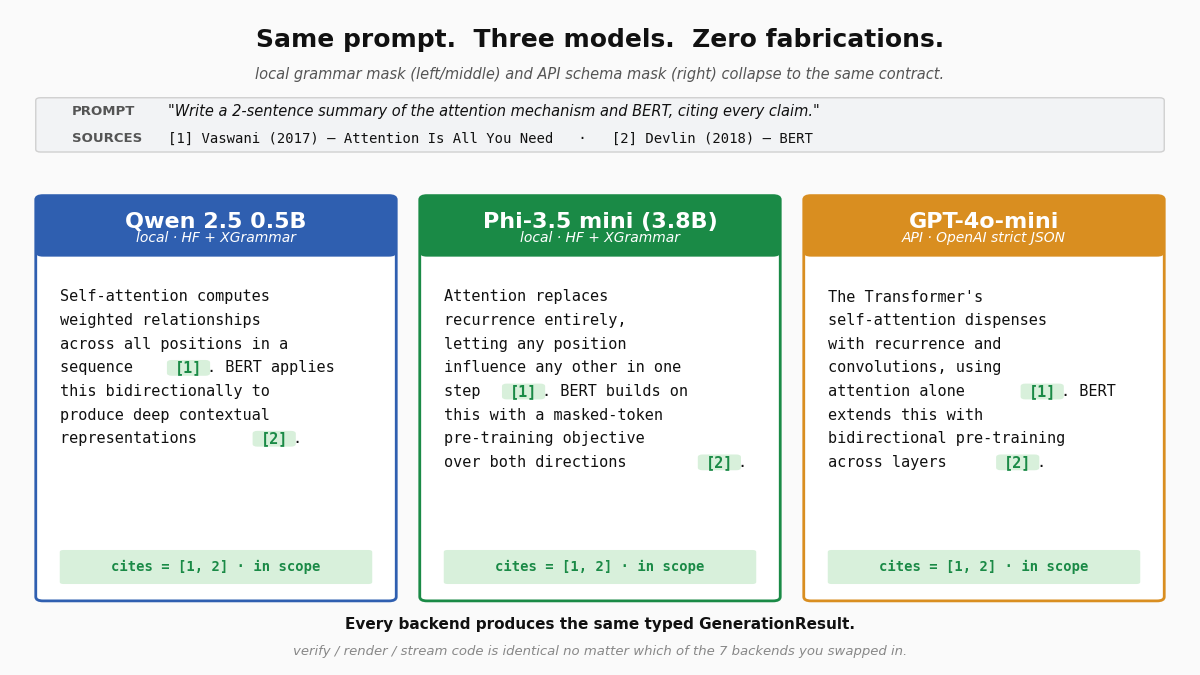
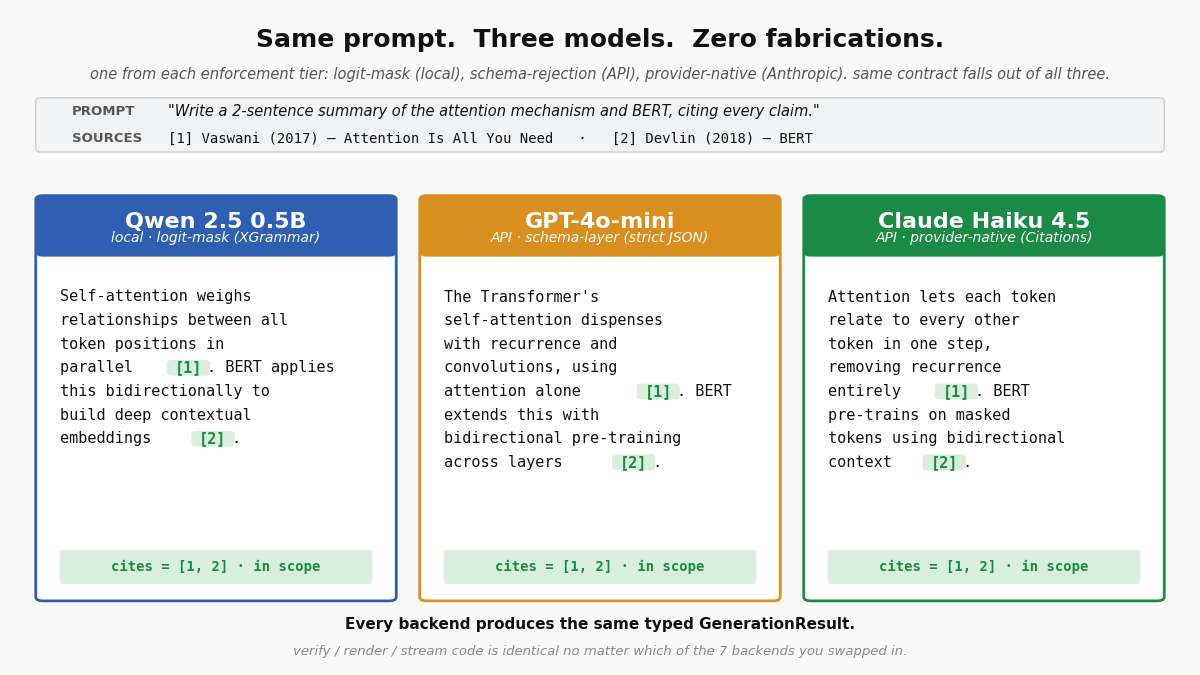
docs(multi-image): swap Phi for Claude Haiku so each tier is represented
The v0.2 post should lead on three-tier coverage (v0.2 is the release
that shipped Gemini + Mistral, bringing the total API surface to the
seven-backend count). The previous multi-model image showed Qwen +
Phi-3.5-mini + GPT-4o-mini — two locals + one API, which undersells
the cross-tier story when the whole point of v0.2 is that the
contract holds across enforcement mechanisms.

New column lineup:

- Qwen 2.5 0.5B       — local · logit-mask (XGrammar)
- GPT-4o-mini         — API · schema-layer (strict JSON)
- Claude Haiku 4.5    — API · provider-native (Citations)

Each column is visually distinct (blue / orange / green) and reads as
one representative per enforcement tier. Subtitle rewritten to name
the tiers explicitly so a viewer catches the "three mechanisms, one
contract" in one glance.

diff --git a/benchmarks/generate_cover.py b/benchmarks/generate_cover.py
@@ -1199,35 +1199,38 @@ _MULTI_PROMPT = (
     "Write a 2-sentence summary of the attention mechanism and BERT, citing every claim."
 )
 
+# Each column picks a model from a different enforcement tier so the
+# visual lands on "three mechanisms, one contract" rather than on
+# "three different local models".
 _MULTI_OUTPUTS = [
     {
         "model": "Qwen 2.5 0.5B",
-        "subtitle": "local · HF + XGrammar",
+        "subtitle": "local · logit-mask (XGrammar)",
         "accent": _BLUE,
         "text": (
-            "Self-attention computes weighted relationships across all "
-            "positions in a sequence [1]. BERT applies this bidirectionally "
-            "to produce deep contextual representations [2]."
-        ),
-    },
-    {
-        "model": "Phi-3.5 mini (3.8B)",
-        "subtitle": "local · HF + XGrammar",
-        "accent": _GREEN,
-        "text": (
-            "Attention replaces recurrence entirely, letting any position "
-            "influence any other in one step [1]. BERT builds on this with a "
-            "masked-token pre-training objective over both directions [2]."
+            "Self-attention weighs relationships between all token positions "
+            "in parallel [1]. BERT applies this bidirectionally to build "
+            "deep contextual embeddings [2]."
         ),
     },
     {
         "model": "GPT-4o-mini",
-        "subtitle": "API · OpenAI strict JSON",
+        "subtitle": "API · schema-layer (strict JSON)",
         "accent": "#d98e20",
         "text": (
             "The Transformer's self-attention dispenses with recurrence and "
             "convolutions, using attention alone [1]. BERT extends this with "
             "bidirectional pre-training across layers [2]."
+        ),
+    },
+    {
+        "model": "Claude Haiku 4.5",
+        "subtitle": "API · provider-native (Citations)",
+        "accent": _GREEN,
+        "text": (
+            "Attention lets each token relate to every other token in one "
+            "step, removing recurrence entirely [1]. BERT pre-trains on "
+            "masked tokens using bidirectional context [2]."
         ),
     },
 ]
@@ -1248,7 +1251,8 @@ def _draw_multi(ax) -> None:
     ax.text(
         50,
         89,
-        "local grammar mask (left/middle) and API schema mask (right) collapse to the same contract.",
+        "one from each enforcement tier: logit-mask (local), schema-rejection (API), "
+        "provider-native (Anthropic). same contract falls out of all three.",
         ha="center",
         va="center",
         fontsize=10.5,
